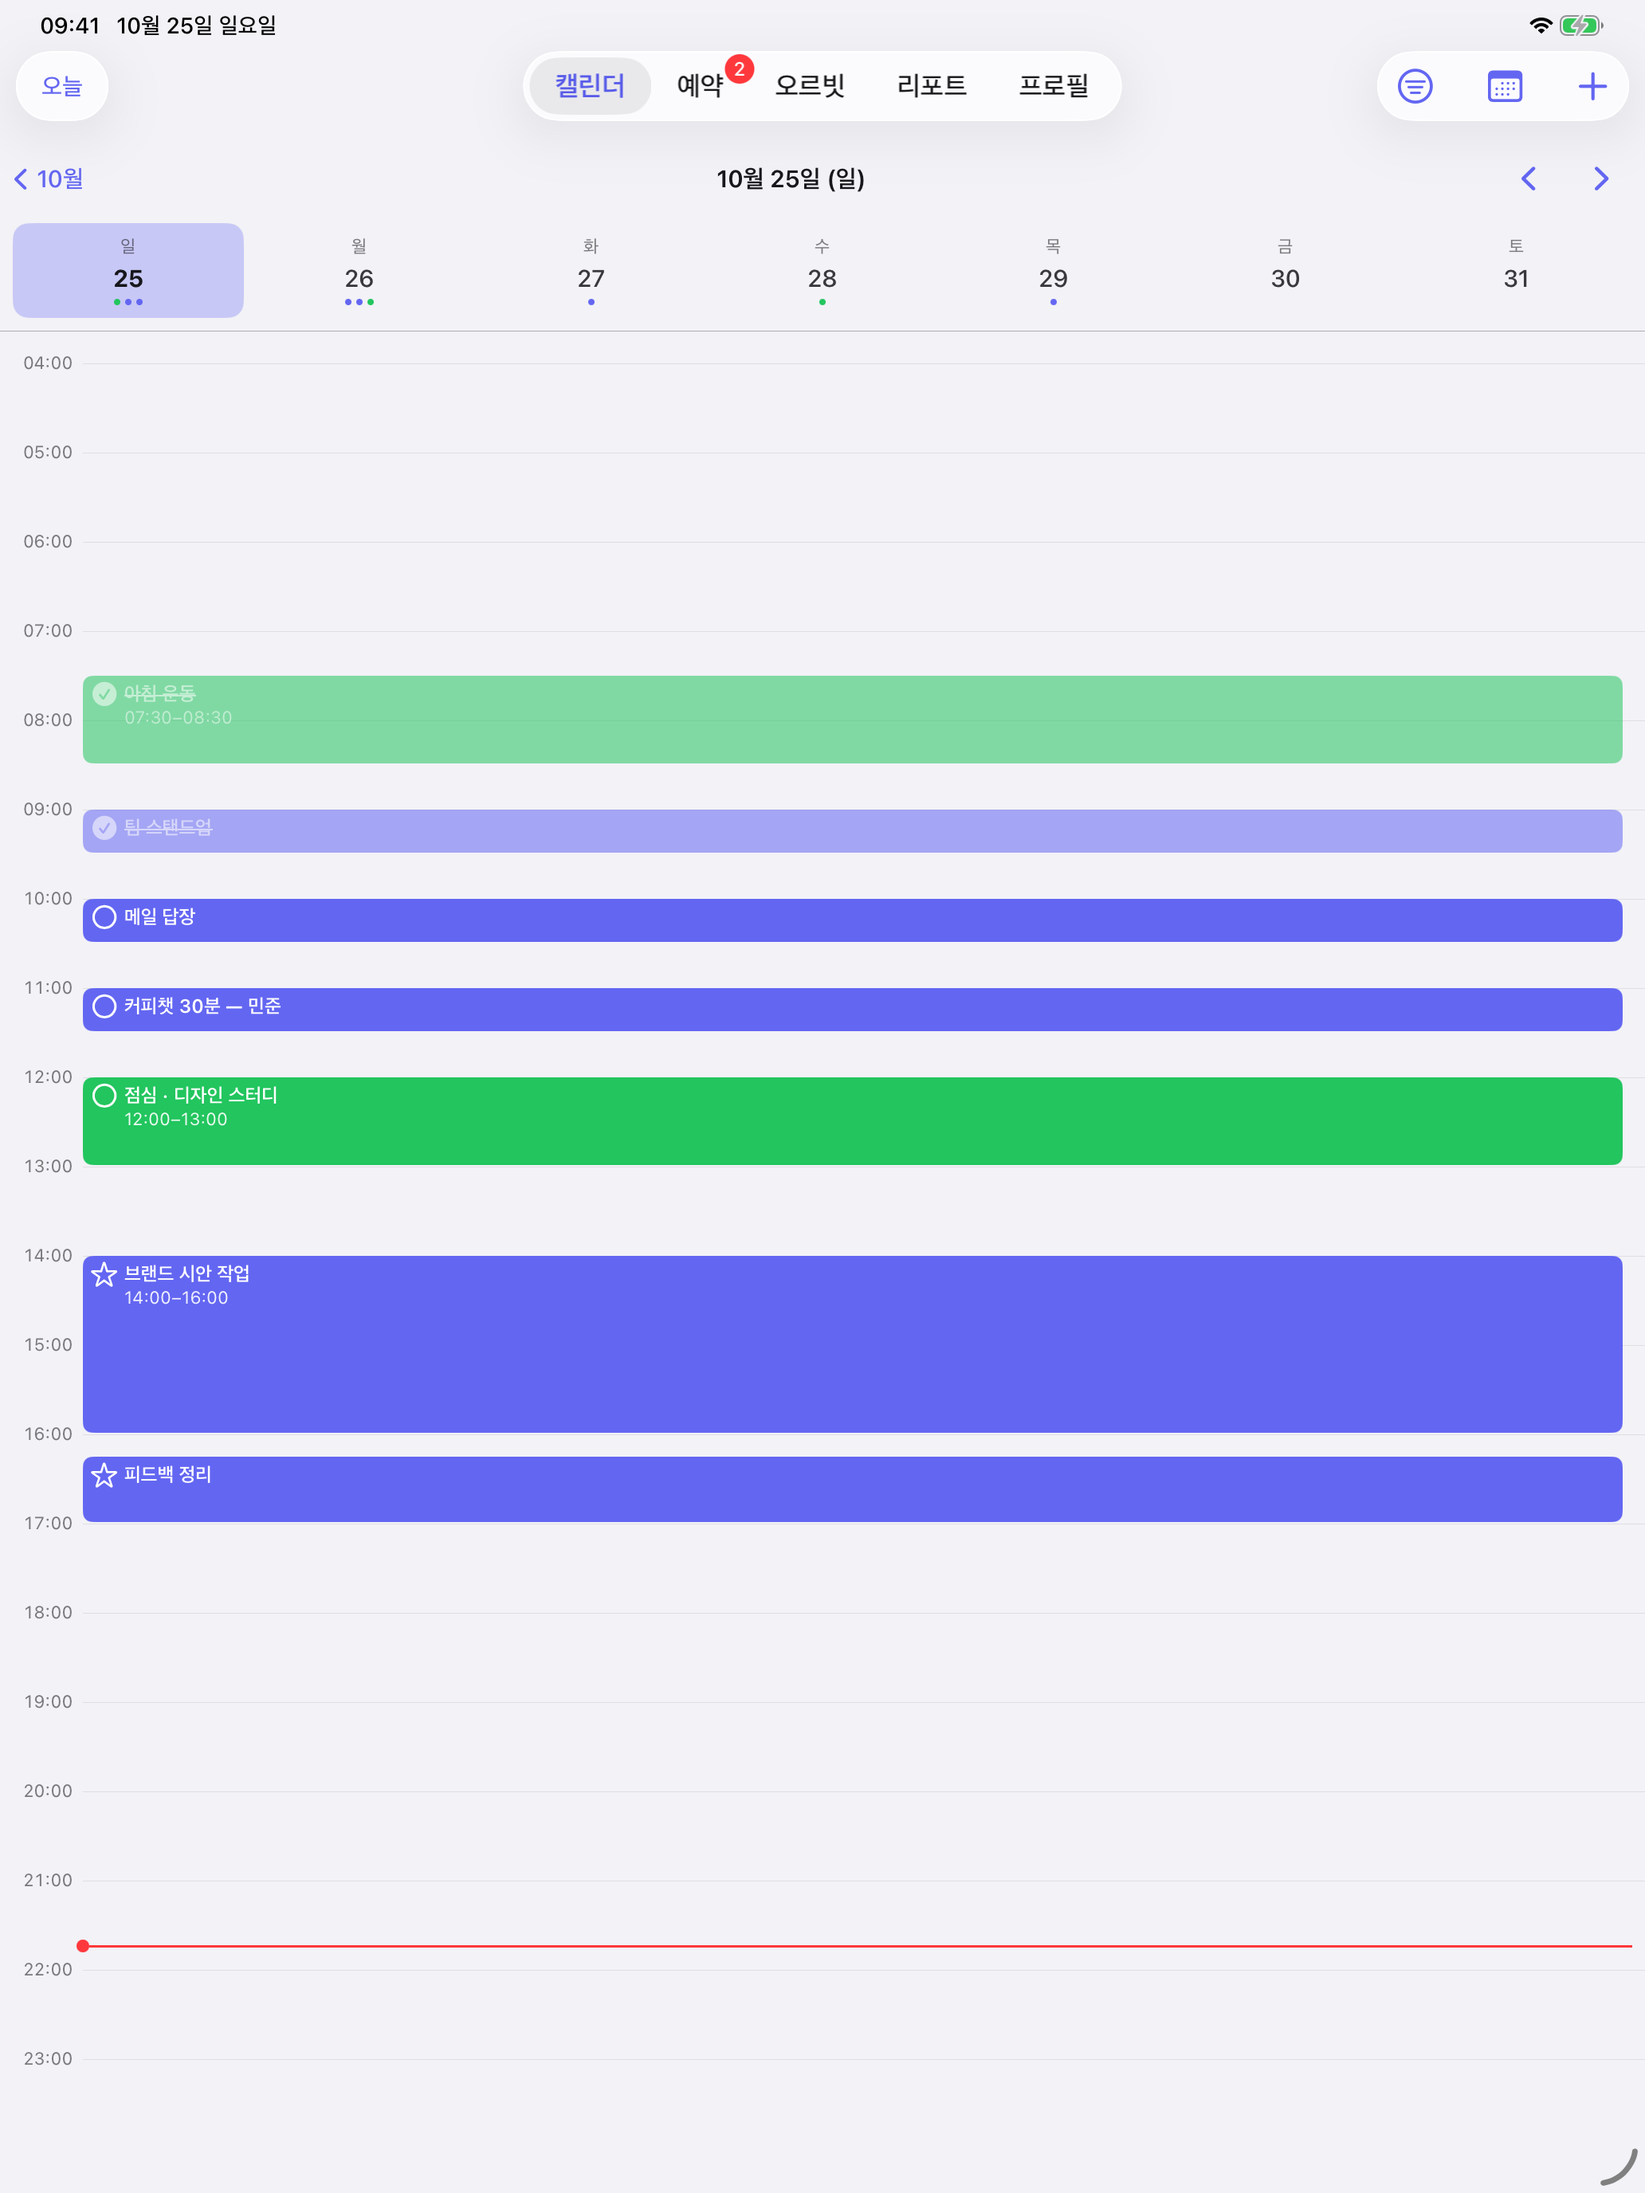
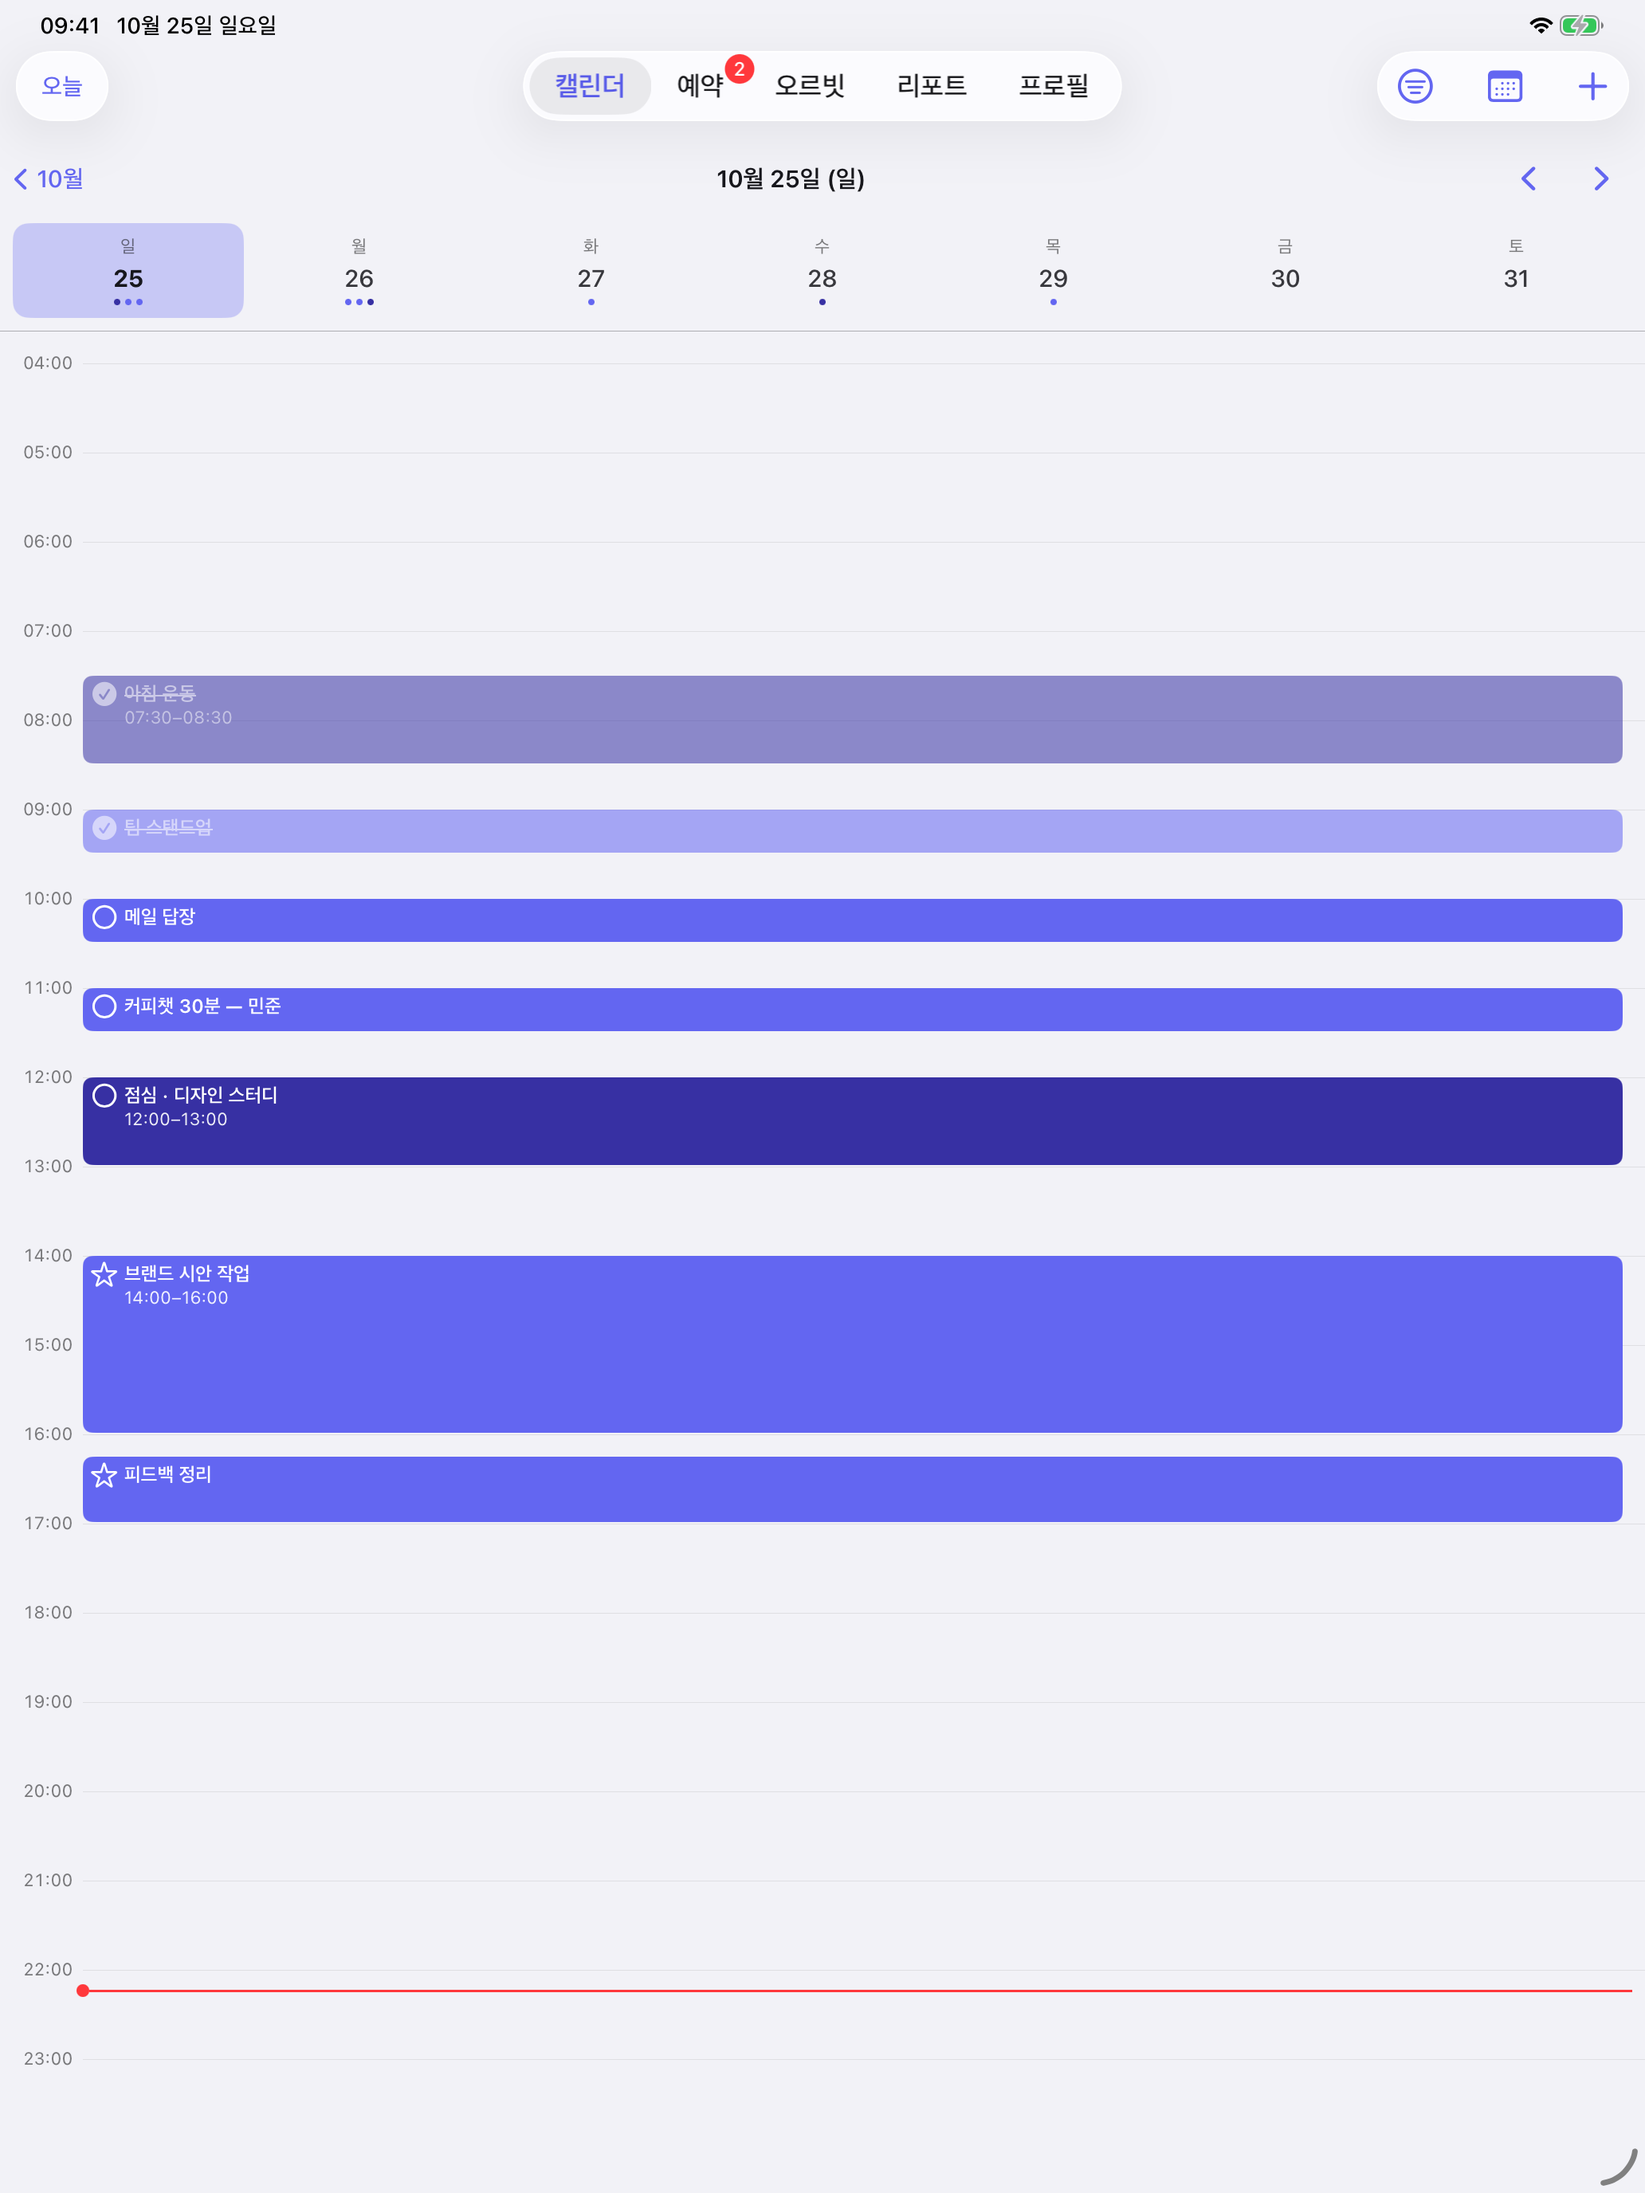
chore(ios): 개선-51 스크린샷 색을 배경 보라 한 계열로 — 촬영용 예시 캘린더·사람·분류 색, 링크 페이지 라이트 테마, 위젯 배경화면
앱 UI 색(만족도 하트, 예약 상태 배지, 요청 배지)은 실제 앱과 같게 그대로 둠.

Claude-Session: https://claude.ai/code/session_01PsU5VQK3aMt47ocdXdThUg

Changed region(s): [[0.031, 0.2812, 0.9922, 0.375], [0.031, 0.4688, 0.9922, 0.5312]]

diff --git a/ios/Orbit42/Core/BrowseFixtures.swift b/ios/Orbit42/Core/BrowseFixtures.swift
@@ -21,6 +21,9 @@ enum BrowseFixtures {
         ("예시 게스트 A", "민준"), ("예시 게스트 B", "서연"), ("예시 게스트 C", "지호"), ("예시 게스트 D", "유나"),
         ("예시 게스트 E", "도윤"), ("예시 게스트", "민준"), ("예시 동료", "수아"), ("예시 친구", "준서"),
         ("예시 사용자", "하린"), ("예시 코치", "시우"), ("예시 디자이너", "하은"), ("example.user", "harin.design"),
+        // 색도 배경 보라와 한 계열로 — 사용자가 고르는 색(캘린더·사람·분류)만. 앱 UI 색(하트·상태 배지)은 그대로.
+        ("#22c55e", "#3730a3"), ("#f59e0b", "#a5b4fc"),
+        ("#E8775A", "#4338CA"), ("#5A9BE8", "#6366F1"), ("#22C55E", "#818CF8"), ("#F59E0B", "#A5B4FC"),
     ]
 
     /// 둘러보기용 예시 사용자

diff --git a/ios/Orbit42UITests/StoreShotsUITests.swift b/ios/Orbit42UITests/StoreShotsUITests.swift
@@ -54,7 +54,7 @@ final class StoreShotsUITests: XCTestCase {
             // iPad 는 키보드가 자동으로 뜬다 — 내리고 찍는다
             if app.keyboards.firstMatch.exists {
                 let hide = app.keyboards.buttons.matching(NSPredicate(format: "label CONTAINS[c] %@ OR label CONTAINS %@", "keyboard", "키보드")).firstMatch
-                if hide.exists { hide.tap() }
+                if hide.exists { hide.coordinate(withNormalizedOffset: CGVector(dx: 0.5, dy: 0.5)).tap() }
                 sleep(1)
             }
             shot("newslot")

diff --git a/ios/AppStore/1.6.0/compose160.py b/ios/AppStore/1.6.0/compose160.py
@@ -142,6 +142,23 @@ def widgets_screen():
         d.line([(0, y), (half, y)], fill=w.getpixel((half + 40, y)))
     glyphs = status_glyphs(day, 150, day.getpixel((660, 20))).crop((0, 0, half, 150))
     w.paste(glyphs, (0, 0), glyphs)
+    # 배경화면(보라→분홍)을 한 계열 보라로 — 위젯 카드·아이콘은 그대로, 배경화면 픽셀만 바꾼다
+    px = w.load()
+    W2, H2 = w.size
+    top, bot = (110, 112, 240), (64, 52, 190)
+    for y in range(H2):
+        ref = w.getpixel((6, y)) if y >= 150 else None
+        t = y / (H2 - 1)
+        new = tuple(int(top[i] + (bot[i] - top[i]) * t) for i in range(3))
+        for x in range(W2):
+            r, g, b = px[x, y]
+            if ref is None:
+                # 상태바 줄 — 글자·아이콘(어두운 픽셀·초록 배터리)은 남긴다
+                if r + g + b > 300 and not (g > r + 40):
+                    px[x, y] = new
+                continue
+            if abs(r - ref[0]) + abs(g - ref[1]) + abs(b - ref[2]) < 40:
+                px[x, y] = new
     return w
 
 
